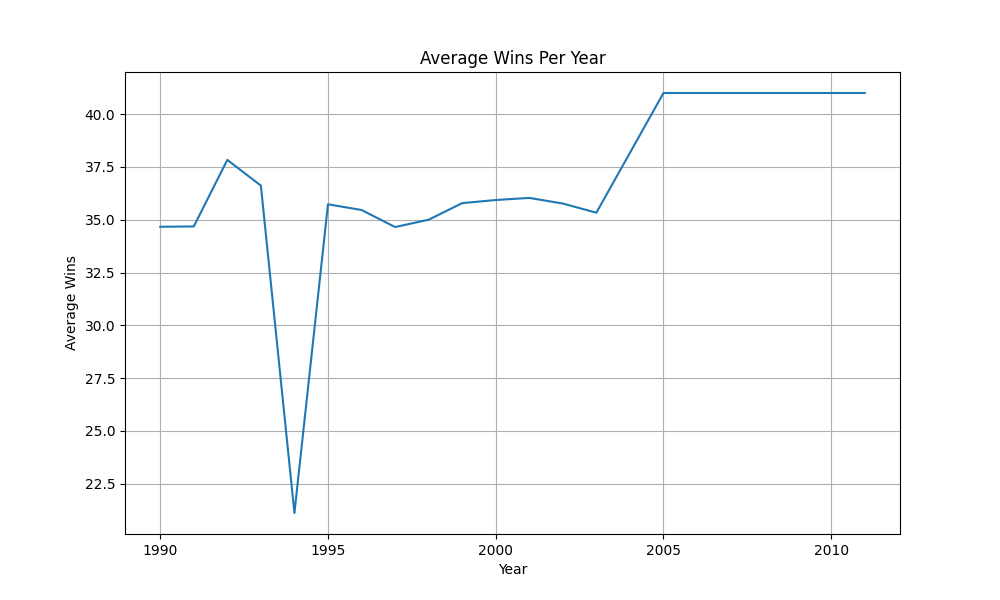
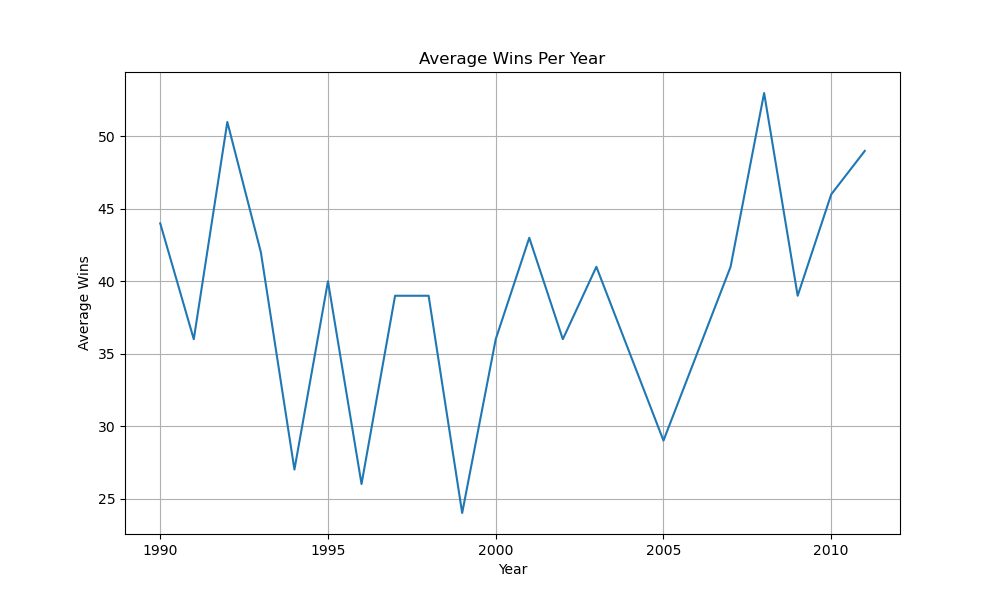
added CLI and .env

diff --git a/src/config/settings.py b/src/config/settings.py
@@ -1,0 +1,29 @@
+import os
+
+from dotenv import load_dotenv
+
+load_dotenv()
+
+SCRAPER_DELAY = int(
+    os.getenv("SCRAPER_DELAY", 1)
+)
+
+USER_AGENT = os.getenv(
+    "USER_AGENT",
+    "Mozilla/5.0"
+)
+
+RAW_DATA_PATH = os.getenv(
+    "RAW_DATA_PATH",
+    "data/raw"
+)
+
+PROCESSED_DATA_PATH = os.getenv(
+    "PROCESSED_DATA_PATH",
+    "data/processed"
+)
+
+REPORTS_PATH = os.getenv(
+    "REPORTS_PATH",
+    "data/reports"
+)

diff --git a/src/constants/constants.py b/src/constants/constants.py
@@ -1,10 +1,27 @@
+from src.config.settings import (
+    RAW_DATA_PATH,
+    PROCESSED_DATA_PATH,
+    REPORTS_PATH
+)
+
+# Base scraping URL
 BASE_URL = "https://www.scrapethissite.com/pages/forms/"
 
-HEADERS = {
-    "User-Agent": "Mozilla/5.0"
-}
+# HTML parser
+HTML_PARSER = "lxml"
 
-RAW_DATA_PATH = "data/raw/"
-PROCESSED_DATA_PATH = "data/processed/"
+# Request timeout
+REQUEST_TIMEOUT = 10
 
+# Log file
 LOG_FILE_PATH = "logs/pipeline.log"
+
+# CSS selectors
+TEAM_ROW_SELECTOR = "tr.team"
+
+PAGINATION_SELECTOR = "ul.pagination li a"
+
+# Default output filenames
+DEFAULT_CSV_FILENAME = "teams.csv"
+
+DEFAULT_PARQUET_FILENAME = "teams.parquet"

diff --git a/main.py b/main.py
@@ -1,7 +1,9 @@
 import time
+import argparse
+
 
 from src.constants.constants import BASE_URL
-from src.config.config import SCRAPER_DELAY
+from src.config.settings import SCRAPER_DELAY
 
 from src.utils.logger import setup_logger
 
@@ -194,13 +196,26 @@ def run_pipeline(query=None):
     return df
 
 
+def parse_arguments():
+
+    parser = argparse.ArgumentParser(
+        description="Hockey Teams Scraping Pipeline"
+    )
+
+    parser.add_argument(
+        "--query",
+        type=str,
+        required=False,
+        help="Filter teams by query"
+    )
+
+    return parser.parse_args()
+
 if __name__ == "__main__":
 
-    # Example:
-    # query=None → scrape all teams
-    # query="Boston" → filtered scraping
+    args = parse_arguments()
 
-    df = run_pipeline(query=None)
+    df = run_pipeline(query=args.query)
 
     print("\nFinal Dataset Preview:\n")
 

diff --git a/src/scraper/fetcher.py b/src/scraper/fetcher.py
@@ -3,9 +3,9 @@ import requests
 from requests.adapters import HTTPAdapter
 from urllib3.util.retry import Retry
 
-from src.constants.constants import HEADERS
 from src.config.config import REQUEST_TIMEOUT, MAX_RETRIES
 from src.utils.logger import setup_logger
+from src.config.settings import USER_AGENT
 
 logger = setup_logger()
 
@@ -31,7 +31,9 @@ def fetch_page(session, url, params=None):
     try:
         response = session.get(
             url,
-            headers=HEADERS,
+            headers = {
+    "User-Agent": USER_AGENT 
+},
             params=params,
             timeout=REQUEST_TIMEOUT
         )